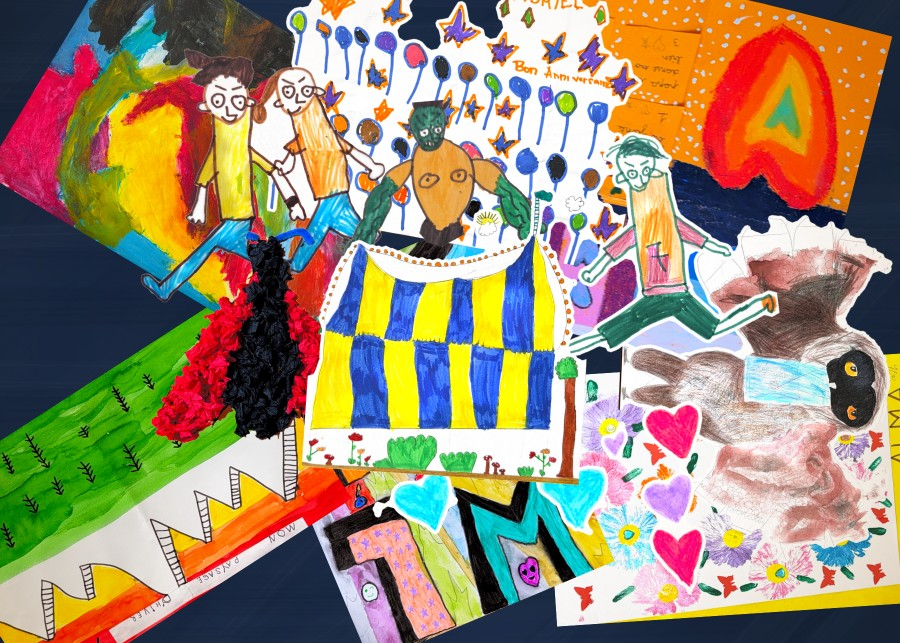
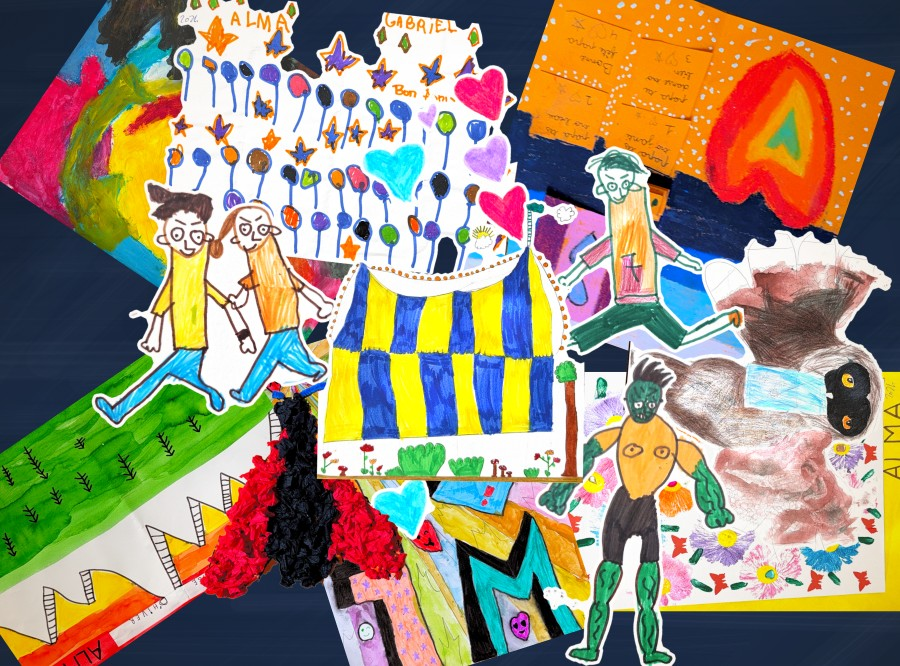
Photo sur mur clair : la feuille n'est plus confondue avec la surface, le personnage garde ses jambes
Quand le mur ou la table a la couleur du papier, le retrait de surface
ne gardait que l'encre : un short noir passait pour une ombre, les jambes
se détachaient et la découpe s'arrêtait au torse. La photo est alors
traitée comme un scan (papier partout, sujets découpés à l'encre).
Images de l'accueil recomposées avec le super-héros entier.

Claude-Session: https://claude.ai/code/session_016gFESkuH8R1BfGgUe59ViC

diff --git a/landing/index.html b/landing/index.html
@@ -407,12 +407,12 @@
           <p>Chaque import donne sept propositions, toujours avec tous les dessins. Choisissez-en une, puis faites-la vôtre.</p>
         </div>
         <div class="styles">
-          <figure class="style"><img src="img/oeuvre-paysage.jpg" width="900" height="643" loading="lazy" decoding="async" alt="Tableau de dessins d’enfants, composition Paysage : ciel, milieu et sol"><div><b>Paysage</b><span>ciel, milieu, sol</span></div></figure>
+          <figure class="style"><img src="img/oeuvre-paysage.jpg" width="900" height="666" loading="lazy" decoding="async" alt="Tableau de dessins d’enfants, composition Paysage : ciel, milieu et sol"><div><b>Paysage</b><span>ciel, milieu, sol</span></div></figure>
           <figure class="style"><img src="img/oeuvre-frise.jpg" width="900" height="300" loading="lazy" decoding="async" alt="Tableau de dessins d’enfants, composition Frise : les dessins à la suite, en bande"><div><b>Frise</b><span>une bande, les dessins à la suite</span></div></figure>
           <figure class="style"><img src="img/oeuvre-nuage.jpg" width="900" height="691" loading="lazy" decoding="async" alt="Tableau de dessins d’enfants, composition Nuage : dispersés sur un fond uni"><div><b>Nuage</b><span>dispersés sur un fond uni</span></div></figure>
-          <figure class="style"><img src="img/oeuvre-tournesol.jpg" width="900" height="643" loading="lazy" decoding="async" alt="Tableau de dessins d’enfants, composition Tournesol : en spirale depuis le cœur"><div><b>Tournesol</b><span>spirale depuis le cœur</span></div></figure>
-          <figure class="style"><img src="img/oeuvre-courtepointe.jpg" width="900" height="643" loading="lazy" decoding="async" alt="Tableau de dessins d’enfants, composition Courtepointe : en patchwork"><div><b>Courtepointe</b><span>patchwork, un médaillon par carreau</span></div></figure>
-          <figure class="style"><img src="img/oeuvre-cabinet.jpg" width="900" height="643" loading="lazy" decoding="async" alt="Tableau de dessins d’enfants, composition Cabinet de curiosités : en rangées"><div><b>Cabinet de curiosités</b><span>les plus beaux, en rangées</span></div></figure>
+          <figure class="style"><img src="img/oeuvre-tournesol.jpg" width="900" height="666" loading="lazy" decoding="async" alt="Tableau de dessins d’enfants, composition Tournesol : en spirale depuis le cœur"><div><b>Tournesol</b><span>spirale depuis le cœur</span></div></figure>
+          <figure class="style"><img src="img/oeuvre-courtepointe.jpg" width="900" height="666" loading="lazy" decoding="async" alt="Tableau de dessins d’enfants, composition Courtepointe : en patchwork"><div><b>Courtepointe</b><span>patchwork, un médaillon par carreau</span></div></figure>
+          <figure class="style"><img src="img/oeuvre-cabinet.jpg" width="900" height="666" loading="lazy" decoding="async" alt="Tableau de dessins d’enfants, composition Cabinet de curiosités : en rangées"><div><b>Cabinet de curiosités</b><span>les plus beaux, en rangées</span></div></figure>
           <figure class="style"><img src="img/oeuvre-galerie.jpg" width="900" height="900" loading="lazy" decoding="async" alt="Tableau de dessins d’enfants, composition Galerie : un dessin par cadre"><div><b>Galerie</b><span>un dessin par cadre</span></div></figure>
         </div>
       </div>

diff --git a/collage/js/extract.js b/collage/js/extract.js
@@ -1786,6 +1786,11 @@
     const paperFrac = paperCount / Math.max(1, n - surfCount);
     const surfFrac = surfCount / n;
     Object.assign(removeSurface.debug, { surfFrac: +surfFrac.toFixed(2), gate: 'surface' });
+    // mur ou table clairs, de la couleur du papier : la feuille ne se distingue pas de la surface, il
+    // ne resterait que l'encre (et un short noir passerait pour une ombre, les jambes seraient
+    // perdues). La photo est alors traitée comme un scan : le papier est partout, les sujets se
+    // découpent à l'encre.
+    if (!force && neutral && L >= 170 && paperFrac < 0.1) { removeSurface.debug.gate = 'feuille≈surface'; return null; }
     if (!force && (surfFrac < 0.05 || surfFrac > 0.97)) return null;
     if (force && (surfFrac < 0.02 || surfFrac > 0.99)) return null;
     // une bordure trop disparate est une page peinte jusqu'aux bords, pas un sol
